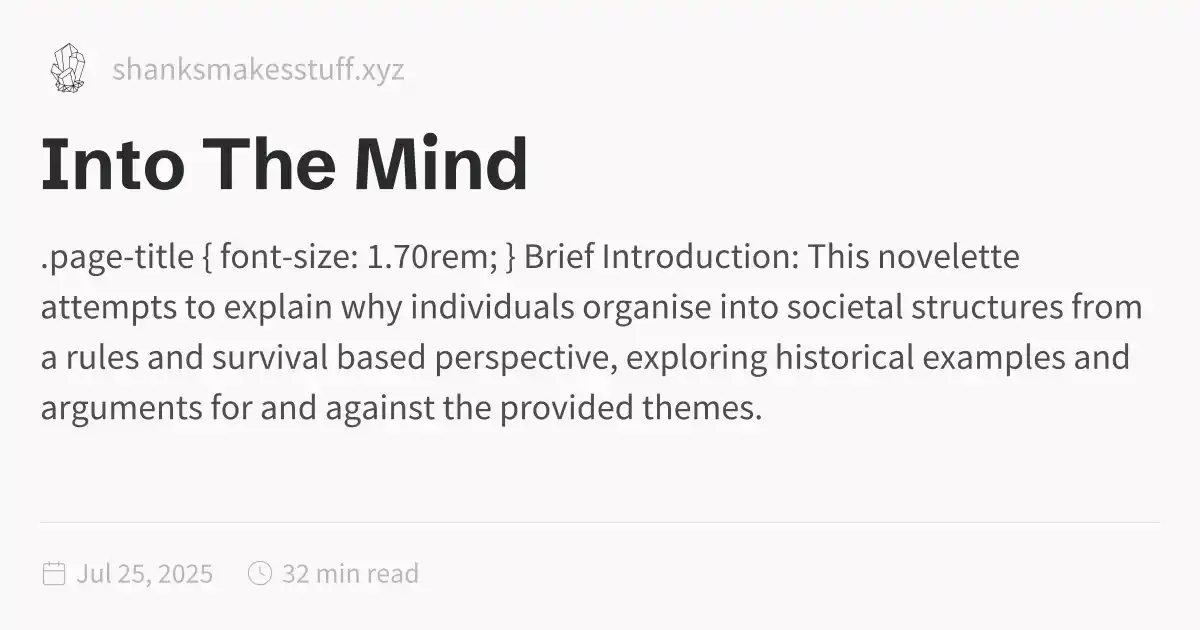
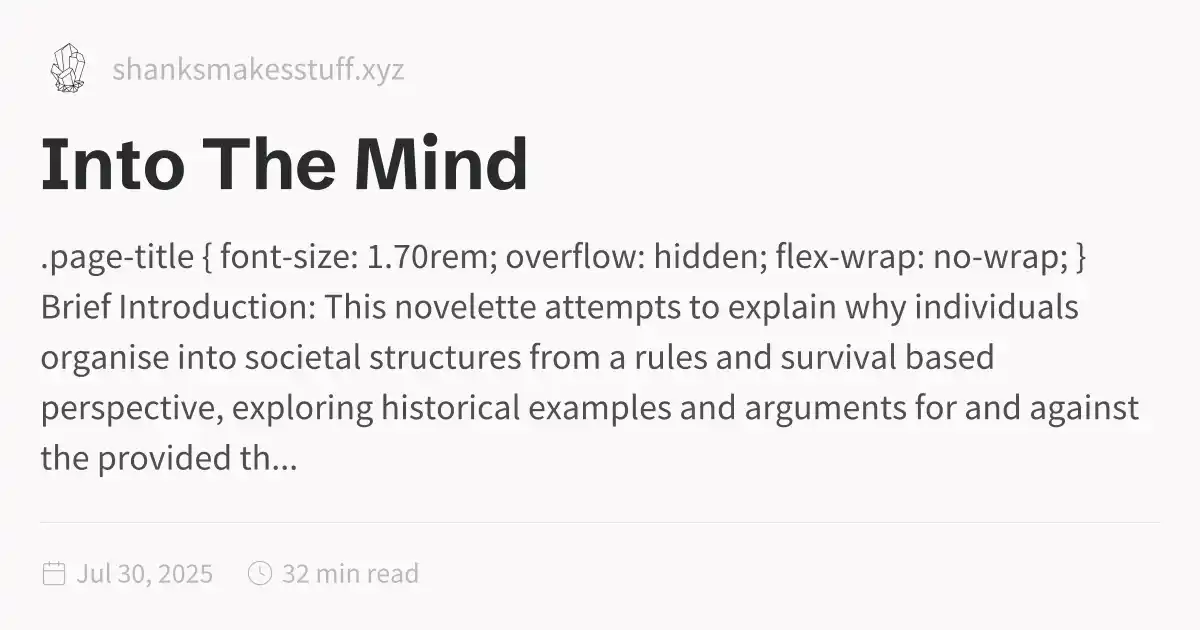
2025-07-30_1919

diff --git a/Into-The-Mind.html b/Into-The-Mind.html
@@ -1,5 +1,5 @@
 <!DOCTYPE html>
-<html lang="en"><head><title>Into The Mind</title><meta charset="utf-8"/><link rel="preconnect" href="https://fonts.googleapis.com"/><link rel="preconnect" href="https://fonts.gstatic.com"/><link rel="stylesheet" href="https://fonts.googleapis.com/css2?family=Schibsted Grotesk:wght@400;700&amp;family=Source Sans Pro:ital,wght@0,400;0,600;1,400;1,600&amp;family=IBM Plex Mono:wght@400;600&amp;display=swap"/><link rel="preconnect" href="https://cdnjs.cloudflare.com" crossorigin="anonymous"/><meta name="viewport" content="width=device-width, initial-scale=1.0"/><meta name="og:site_name" content="ShanksMakesStuff"/><meta property="og:title" content="Into The Mind"/><meta property="og:type" content="website"/><meta name="twitter:card" content="summary_large_image"/><meta name="twitter:title" content="Into The Mind"/><meta name="twitter:description" content=".page-title { font-size: 1.70rem; } Brief Introduction: This novelette attempts to explain why individuals organise into societal structures from a rules and survival based perspective, exploring historical examples and arguments for and against the provided themes."/><meta property="og:description" content=".page-title { font-size: 1.70rem; } Brief Introduction: This novelette attempts to explain why individuals organise into societal structures from a rules and survival based perspective, exploring historical examples and arguments for and against the provided themes."/><meta property="og:image:alt" content=".page-title { font-size: 1.70rem; } Brief Introduction: This novelette attempts to explain why individuals organise into societal structures from a rules and survival based perspective, exploring historical examples and arguments for and against the provided themes."/><meta property="twitter:domain" content="shanksmakesstuff.xyz"/><meta property="og:url" content="https://shanksmakesstuff.xyz/Into-The-Mind"/><meta property="twitter:url" content="https://shanksmakesstuff.xyz/Into-The-Mind"/><link rel="icon" href="./static/icon.png"/><meta name="description" content=".page-title { font-size: 1.70rem; } Brief Introduction: This novelette attempts to explain why individuals organise into societal structures from a rules and survival based perspective, exploring historical examples and arguments for and against the provided themes."/><meta name="generator" content="Quartz"/><link href="./index.css" rel="stylesheet" type="text/css" spa-preserve/><style>.expand-button {
+<html lang="en"><head><title>Into The Mind</title><meta charset="utf-8"/><link rel="preconnect" href="https://fonts.googleapis.com"/><link rel="preconnect" href="https://fonts.gstatic.com"/><link rel="stylesheet" href="https://fonts.googleapis.com/css2?family=Schibsted Grotesk:wght@400;700&amp;family=Source Sans Pro:ital,wght@0,400;0,600;1,400;1,600&amp;family=IBM Plex Mono:wght@400;600&amp;display=swap"/><link rel="preconnect" href="https://cdnjs.cloudflare.com" crossorigin="anonymous"/><meta name="viewport" content="width=device-width, initial-scale=1.0"/><meta name="og:site_name" content="ShanksMakesStuff"/><meta property="og:title" content="Into The Mind"/><meta property="og:type" content="website"/><meta name="twitter:card" content="summary_large_image"/><meta name="twitter:title" content="Into The Mind"/><meta name="twitter:description" content=".page-title { font-size: 1.70rem; overflow: hidden; flex-wrap: no-wrap; } Brief Introduction: This novelette attempts to explain why individuals organise into societal structures from a rules and survival based perspective, exploring historical examples and arguments for and against the provided th..."/><meta property="og:description" content=".page-title { font-size: 1.70rem; overflow: hidden; flex-wrap: no-wrap; } Brief Introduction: This novelette attempts to explain why individuals organise into societal structures from a rules and survival based perspective, exploring historical examples and arguments for and against the provided th..."/><meta property="og:image:alt" content=".page-title { font-size: 1.70rem; overflow: hidden; flex-wrap: no-wrap; } Brief Introduction: This novelette attempts to explain why individuals organise into societal structures from a rules and survival based perspective, exploring historical examples and arguments for and against the provided th..."/><meta property="twitter:domain" content="shanksmakesstuff.xyz"/><meta property="og:url" content="https://shanksmakesstuff.xyz/Into-The-Mind"/><meta property="twitter:url" content="https://shanksmakesstuff.xyz/Into-The-Mind"/><link rel="icon" href="./static/icon.png"/><meta name="description" content=".page-title { font-size: 1.70rem; overflow: hidden; flex-wrap: no-wrap; } Brief Introduction: This novelette attempts to explain why individuals organise into societal structures from a rules and survival based perspective, exploring historical examples and arguments for and against the provided th..."/><meta name="generator" content="Quartz"/><link href="./index.css" rel="stylesheet" type="text/css" spa-preserve/><style>.expand-button {
   position: absolute;
   display: flex;
   float: right;
@@ -116,10 +116,12 @@ pre:hover > .expand-button {
   padding: 0 12px;
   font-size: 14px;
 }
[2 lines of base64/hex data omitted]
 	<style> 
 		.page-title { 
 			font-size: 1.70rem; 
+			 overflow: hidden; 
+			 flex-wrap: no-wrap; 
 		}
 	</style> 
  
@@ -143,7 +145,7 @@ pre:hover > .expand-button {
 <p>A society is a rather loose term, and deliberately so. Its vagueness stems from its vast jurisdiction of ideas. However, wholistically understanding this within the greater arguments of this book means this is not simply a matter of definition. As such, to understand what a society is, we must first look at why humans decided to form these. </p>
 <p>As established, all ideas of the world are models. Thus, any living being that hopes to interact with the world in a predictable way - in a way it can predict, that is - makes use of a model, albeit to varying sophistication. The model of the world in a dog’s mind is likely very different from ours’. For example, their world may lack certain colours that ours does have, and the limited cognitive abilities also means that their model is less refined, or less robust. This manifests itself in many non-human animals in the form of what some perceive as less cognitively enabled beings. </p>
 <p>Most animals would, unsurprisingly, move away from a falling object. This shows that they are aware that the unobstructed object will fall towards the ground, and that, if caught in its path, injuries may result. This information in the animal’s mind is deduced from past experiences, and within its model for the world, it likely deduced the existence of a rule similar to what we humans call gravity. That is not to say it understands gravity in the true form, or even to the extent of many humans, but it is a model nonetheless with its own predictive capabilities. The specifics of an organism’s model’s capacity for sophistication is not of direct importance to us, however. What is the the deduction of a concept of time.</p>
-<p>To organisms can think with a model sophisticated enough to understand time, one aspect of their reality becomes very, terrifyingly clear: uncertainty. If the first pillar of society and existence for humans is the desire to survive, then uncertainty would be the second such pillar to motivate humans to action. I am sure many readers will have ideas of their own ideas regarding that rather blanket statement, but I do request that you hold those thoughts until chapter 6, as I use the word survival to mean a rather unconventional continued existence, but I digress. To the early humans, and no doubt many other organisms, uncertainty reflected in a lack of a guarantee for the next meal, a lack of guarantee of survival the next moment, and so on. </p>
+<p>To organisms can think with a model sophisticated enough to understand time, one aspect of their reality becomes very, terrifyingly clear: uncertainty. If the first pillar of society and existence for humans is the desire to survive, then uncertainty would be the second such pillar to motivate humans to action. I am sure many readers will have ideas of their own ideas regarding that rather blanket statement, but I do request that you hold those thoughts until chapter 3, as I use the word survival to mean a rather unconventional continued existence, but I digress. To the early humans, and no doubt many other organisms, uncertainty reflected in a lack of a guarantee for the next meal, a lack of guarantee of survival the next moment, and so on. </p>
 <p>Humans are an evolutionary anomaly. I do not mean that we are special -far from it, but instead that we are a very unlikely species. The average human of 12,000 years ago (to say nothing of now) was a comparatively physiologically weaker organism in competition with far more powerful predators. This relegated our ancestors far from the pinnacle of the food chain: primarily scavengers, humans remained a backwater species of little note for a large part of our history. Some readers will be quick to point out that what I am now saying flies in the face of my previous arguments regarding sophisticated models and the predictive capabilities of a more cognitively able organism. This is in itself not a wholly unproductive thought: the intuitive line of reasoning would suggest that humans evolved the more complex brain because it gave them better models, thus allowing them better predictive abilities, and thus a survival advantage. There is likely truth to that, but there is a catch.</p>
 <p>The brain is an energy sink like no other organ; despite making around 1/50th of the human body weight, it consumes up to a quarter of the body’s entire energy budget. This meant that for our ancestors, this cognitive boost came at a large caloric price, and evolution does not offer credit. The early human would have had to fund this cognitive development while wrestling with physiologically stronger species that stood atop the food chain.</p>
 <p>With this context, I shall once more reiterate that humans are an extremely <em>unlikely</em> species, in the most literal sense. Anthropologists have long researched the question of how early humans achieved the caloric intake required to enable this direction of evolution, and answers seem as far now as they have been the past century. However, I did say that the aforementioned line of thinking may have some truth to it.</p>
@@ -160,12 +162,14 @@ pre:hover > .expand-button {
 <p>While it would be most interesting to fill the next few pages with musings of the abstractness of language as a model in itself, that would not lead us to the answer we are looking for in this chapter, and thus I leave that as an excercise to the reader and thinker. Instead, I shall concern myself with communication, and the advent of the fourth pillar of society: ideology. </p>
 <h3 id="chapter-13-language-and-ideologies">Chapter 1.3: Language and Ideologies <a role="anchor" aria-hidden="true" tabindex="-1" data-no-popover="true" href="#chapter-13-language-and-ideologies" class="internal"><svg width="18" height="18" viewBox="0 0 24 24" fill="none" stroke="currentColor" stroke-width="2" stroke-linecap="round" stroke-linejoin="round"><path d="M10 13a5 5 0 0 0 7.54.54l3-3a5 5 0 0 0-7.07-7.07l-1.72 1.71"></path><path d="M14 11a5 5 0 0 0-7.54-.54l-3 3a5 5 0 0 0 7.07 7.07l1.71-1.71"></path></svg></a></h3>
 <p>Language essentially allowed humans to peer into each other’s models deeper, and thus form more complex understandings of each other. It also enabled us to make information reception from our senses richer. While humans likely largely used their hearing as a means of detecting movement, it has become increasingly used as a form of communication, a medium for language, in recent history (roughly the last 12,000 years). This allowed us not only the ability to understand others, but to then influence others. </p>
-<p>Recall in the second chapter that models use feedback information to align themselves better with reality. This requires that a model make changes to itself, in order to produce different, more accurate predictions. Thus, if a model can predict another model, the former model will also be able to attempt to provide specific feedback to the latter model, in the hopes of changing it in a specific way. </p>
+<p>Recall from Chapter 1.2 that models use feedback information to align themselves better with reality. This requires that a model make changes to itself, in order to produce different, more accurate predictions. Thus, if a model can predict another model, the former model will also be able to attempt to provide specific feedback to the latter model, in the hopes of changing it in a specific way. </p>
 <p>This may seem manipulative or devious, and indeed this is the idea behind lies and half-truths. For the time that a person believes in a record of past events different to what actually transpired, their model is out of sync with reality, and thus their actions may not be what they would otherwise enact should they have had a more accurate model of reality, drawn from the right information feedback. </p>
 <p>However, it is also this same system of editing each other’s models that enables us to learn new things. This could be factual information, scientific theories, algebra, or religious ideas, or even the ideas of good table manners. All of these are the influence of the many models that we are surrounded by and take feedback from. </p>
 <p>However, this mutual editing of models leads to a rather interesting emergent effect: the formation of collective models. This is perhaps the most nuanced and complex pillar of society, and without which modern society would not exist in its current form. It is the glue that binds us, and finally provides the answer to the first pillar of uncertainty. It also is, perhaps, the most evolved pillar of the 4, and even individual strands of this pillar form entire factions and divide people to this day. </p>
-<p>The term ‘ideology’ is vague, too, similar to ‘society’, but fret not dear reader, this time there is little to be gained from breaking down the term further, and thus I shall refrain from doing so. Instead, we have a much simpler way of dealing with this vagueness: defining ‘ideology’ in terms of the ‘model’. For our purposes, and I would argue most if not all human purposes too, an ideology is the term used for a model which exists in the minds of more than one individual. It is a ‘shared model’ so to speak. I draw heavy inspiration from the ideas of Dr Yuval Noah Harare in this section, for his ideas on ‘shared realities’ is essentially the same as far as I can understand it. However, while he explains it from the top down with real world examples, we have built up to the idea from the bottom up by defining the more fundamental idea of models. </p>
-<p>But, getting back to the question I posed in the heading of chapter 2: Why form a Society? </p>
+<p>The term ‘ideology’ is vague, too, similar to ‘society’, but fret not dear reader, this time there is little to be gained from breaking down the term further, and thus I shall refrain from doing so. Instead, we have a much simpler way of dealing with this vagueness: defining ‘ideology’ in terms of the ‘model’. For our purposes, and I would argue most if not all human purposes too, an ideology is the term used for a model which exists in the minds of more than one individual.</p>
+<p>It is a ‘shared model’ so to speak.</p>
+<p>I draw heavy inspiration from the ideas of Dr Yuval Noah Harare in this section, for his ideas on ‘shared realities’ is essentially the same as far as I can understand it. However, while he explains it from the top down with real world examples, we have built up to the idea from the bottom up by defining the more fundamental idea of models. </p>
+<p>So, after all this, answering why humans form societies:</p>
 <p>A society is formed to bring order to humans in an otherwise uncertain world. By holding a shared model of reality, humans are able to cooperate effectively by essentially decreasing how uncertain they are of their fellow humans’ actions by communicating with and understanding each other. This cooperation brings security, ensuring survival. </p>
 <p>At the heart of every human endeavour is survival. Society is a means of reducing the uncertainty around it, and thus a society collapses when it fails to convince its followers of its ideology’s predictive capability, or the ideology’s predictions are refuted with feedback to its followers. </p>
 <p>That is to say, that a society draws purpose from what it gives to its followers, and gains power from the conviction its followers hold in its ideology. Like clothes, societies may choose to mend their ideologies, or cast them off altogether in the face of more capable ideologies throughout time, while still holding onto the other pillars. This has been seen very significantly in the cold war of the very recent human history, where without changing language, or perceived social systems of power, countries switched from communist ideologies to capitalistic ones in Europe.  Elsewhere, it can be seen in people joining and leaving religions. </p>
@@ -177,10 +181,11 @@ pre:hover > .expand-button {
 <p>Science holds a special spot in human history. The ‘Society’ of scientists is unlike any predecessor, mainly because it is a society that demands its ideologies to be proven false. This is the only society I have come across as yet where conviction in its predictive capabilities grow stronger each time the ideology is shown to incorrectly predict reality. But why is Science an exception? </p>
 <p>I would propose that it is a part of a different class of models. In the same way that ideologies were a generation of models that differentiated their impact by being ‘shared’ models, models such as science are ‘meta,’ or chimera models, so to speak. They are the emergence of competing models, a collection of the ‘fittest’ models, the ones that predict reality the best. And each time one of these sub models are shown to be less fit than a new competing model, the sub model is switched for the new one. Science, on the whole, remains ever the same. </p>
 <p>Some may argue that Science is not the same, that it is evolving too, and to them there lies the task of answering the Ship of Theseus. Regardless of what the answer is, however, the fact remains that Science cannot be so simply explained in its approach to modelling reality as past ideologies. Perhaps, in the coming decades of humanity, we shall see more such meta models appear. Perhaps not. Perhaps science shall remain the only one. </p>
-<p>But I did use a rather interesting word that many readers would have picked up on: ‘fittest models’. Yes, that was a very obvious allusion to Darwinian natural selection, though I prefer to abstract the idea into a more generalised principle. Let us explore this further in a subsequent chapter, chapter 5. For now, instead, we focus on the latter question this chapter’s title posed: What about Atheism? </p>
-<p>Atheism, I would argue, is as much a religion as any other. I am sure that statement is sure to have ruffled more than a few feathers on more than one side of the religious polychotomy, but it simply the logical conclusion one must draw from the earlier definitions of the various pillars of society, the definition of ideology, and that of models. </p>
-<p>Atheism rejects conventional religious models, with adherents often choosing to adopt science as their means of understanding the world instead. In essence, this is the same as religious adherents: both seek to understand the world in a bid to predict the future, providing certainty. For many it is the uncertainty of afterlife, for some it is the logic behind praying, or for some the lack thereof. Fundamentally, by the definitions laid out so far, atheism is as much a religion as the conventional ones, and science is as much an ideology as communism, though I do note quite strongly the difference of a meta-ideology to the more standard ones we have come to be comfortable with in recent history. I, for one, cannot claim to comprehend to a lesser or greater extent, how impactful this distinction will be, but it is certainly a distinction to note nonetheless. </p>
-<p>However, this rather simple view of society does not answer some critical questions hidden in the details. For one, it fails to explain the complexity of modern societies. Sure, laws bring about order, but many of them are not so bothered with basic human needs such as survival, nor do they try to answer existential questions. To answer this, we must turn to the idea of Information Selection. </p>
+<p>However, this rather simple view of society does not answer some critical questions hidden in the details. For one, it fails to explain the complexity of modern societies. Sure, laws bring about order, but many of them are not so bothered with basic human needs such as survival, nor do they try to answer existential questions. Additionally, I employed a rather interesting word a couple of paragraphs earlier that many readers would have picked up on: ‘fittest models’. Yes, I do mean that in terms of Darwinian natural selection, though I prefer to abstract the idea into a more generalised principle. To answer this, we must turn to the idea of Information Selection. </p>
+<h5 id="an-interesting-aside-atheism">An interesting Aside: Atheism<a role="anchor" aria-hidden="true" tabindex="-1" data-no-popover="true" href="#an-interesting-aside-atheism" class="internal"><svg width="18" height="18" viewBox="0 0 24 24" fill="none" stroke="currentColor" stroke-width="2" stroke-linecap="round" stroke-linejoin="round"><path d="M10 13a5 5 0 0 0 7.54.54l3-3a5 5 0 0 0-7.07-7.07l-1.72 1.71"></path><path d="M14 11a5 5 0 0 0-7.54-.54l-3 3a5 5 0 0 0 7.07 7.07l1.71-1.71"></path></svg></a></h5>
+<p>When I started writing this book, my goal was to describe and rationalise as much of human society as possible from within as minimalist a theory as possible. Needless to say, this meant attempting to explain all major religious ideas within the scope of this project with the idea of models and systems. However, when confronted with atheism, my thoughts have changed substantially since I wrote the first iteration of this chapter, and it holds some fascinating repercussions for how we can expect ideas to interact with each other within models.</p>
+<p>During the first iteration of this chapter, I attempted to explain atheism in terms of models in a manner that made it appear identical to religions. However, what I saw and learnt kept contradicting every explanation or rationalisation/system I came up with, and the issue was that I was hoping to explain atheism as an ideology in itself. However, I have come to realise that it may be much more accurate to call atheism a lack of subscription to conventional religious models.</p>
+<p>This may seem unimpressive, and frankly, it’s not meant to be. What is fascinating to me is that the very idea of not needing to subscribe to a particular set of models is in itself a competing force for those models. This does call for what we consider ‘comparable’. I shall update this aside with my answers as I arrive at them.</p>
 <h2 id="chapter-2-information-selection">Chapter 2: Information Selection <a role="anchor" aria-hidden="true" tabindex="-1" data-no-popover="true" href="#chapter-2-information-selection" class="internal"><svg width="18" height="18" viewBox="0 0 24 24" fill="none" stroke="currentColor" stroke-width="2" stroke-linecap="round" stroke-linejoin="round"><path d="M10 13a5 5 0 0 0 7.54.54l3-3a5 5 0 0 0-7.07-7.07l-1.72 1.71"></path><path d="M14 11a5 5 0 0 0-7.54-.54l-3 3a5 5 0 0 0 7.07 7.07l1.71-1.71"></path></svg></a></h2>
 <p>Dear readers, I am sure it is not lost on you that I have deliberately omitted the use of ‘Natural Selection’ as the title. The importance is very much of concern to us, but we must start from Natural Selection to understand why. </p>
 <p>In the previous chapter, I used the term fitness to describe a model. I arrived at the conclusion following the application of Natural Selection principles to models. I understand if you do not follow, or that seems illogical, but let me explain. And to do that, I shall require that you follow my train of thoughts as I have laid it out here, subject to your scrutiny. As to why I am doing this, that shall become obvious when we reach the end of this chapter. </p>
@@ -197,7 +202,7 @@ pre:hover > .expand-button {
 <li>There are variants of comparable information </li>
 <li>Said variants are competing for limited resources, such that the less competitive variants are filtered out with time </li>
 </ol>
-<p>Note the use of the word, ‘comparable’. Later in this section it will become obvious why I highlight that, but for now let us revel in our achievement: we have encapsulated the rules required for applying selection ideas to information in general, instead of just within natural selection’s biological context. I do acknowledge the shortcomings of the nebulous vocabulary, such as ‘comparable,’ without defining what comparable is, but I do not believe such a rigorous framework is necessary to appreciate the ideas presented further in this book. </p>
+<p>Note the use of the word, ‘comparable’. Later in this section it will become obvious why I highlight that, but for now let us revel in our achievement: we have encapsulated the rules required for applying selection ideas to information in general, instead of just within natural selection’s biological context. I do acknowledge the shortcomings of the nebulous vocabulary, such as ‘comparable,’ without defining what comparable is, but I do not believe such a rigorous definition  is necessary to appreciate the ideas presented further in this book. </p>
 <p>With that said, let us see if our ideas for societies fit these criteria. </p>
 <p>To show that societies are in fact subject to selection, I would like to show that ideologies are subject to selection. Do note, that hidden within that sentence is the assumption that if ideologies are subject to selection, so too will be their societies - an assumption without foundation. But we shall get to that in due time. For the moment, we must concern ourselves only with ideologies, and answer each part of the question thoroughly. </p>
 <p>Looking at our requirements of selection theory: </p>
